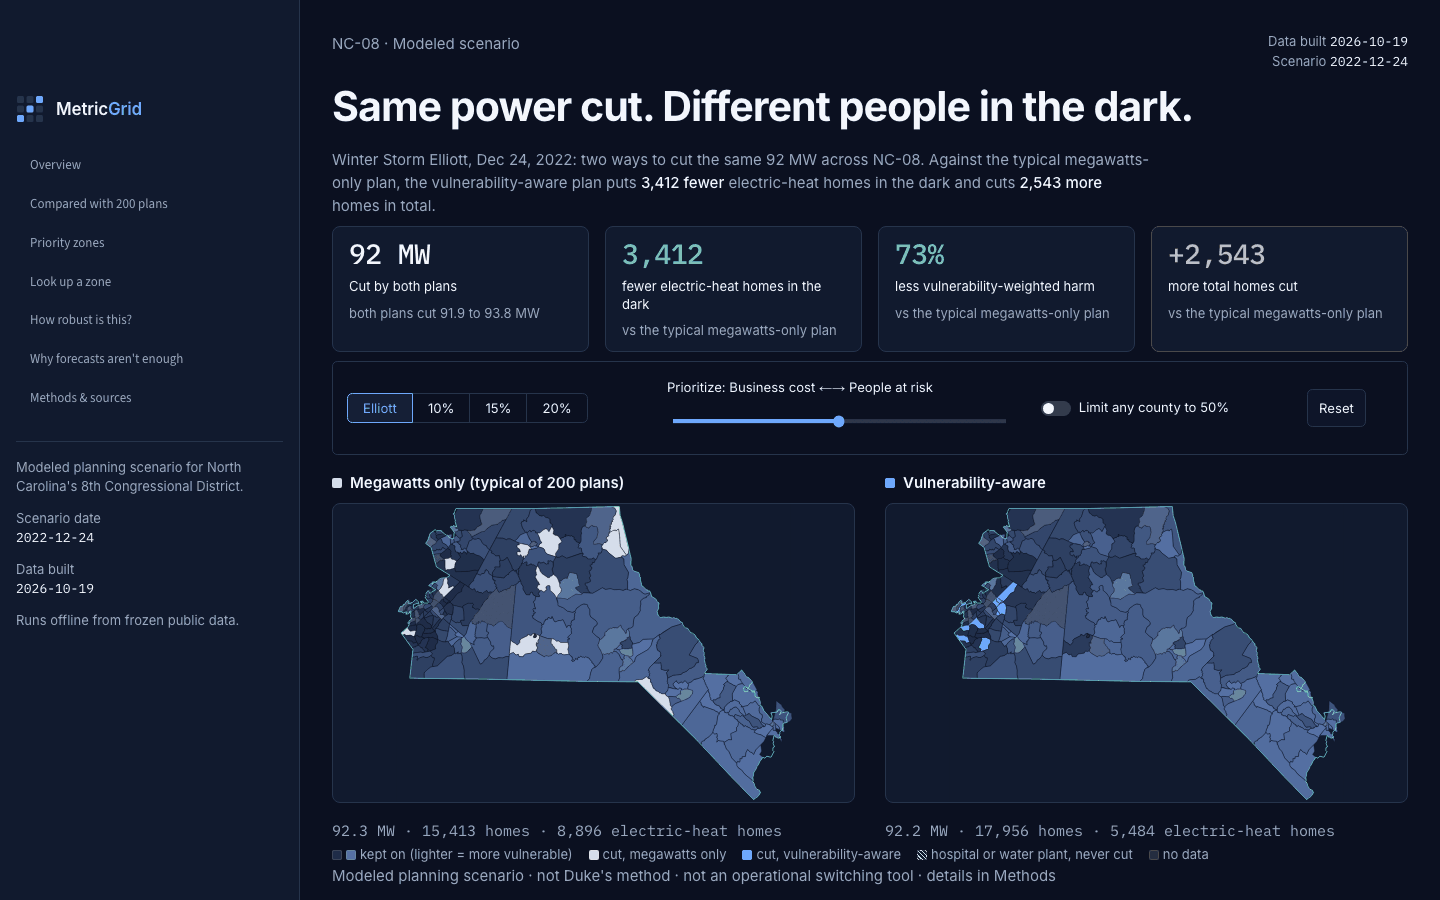
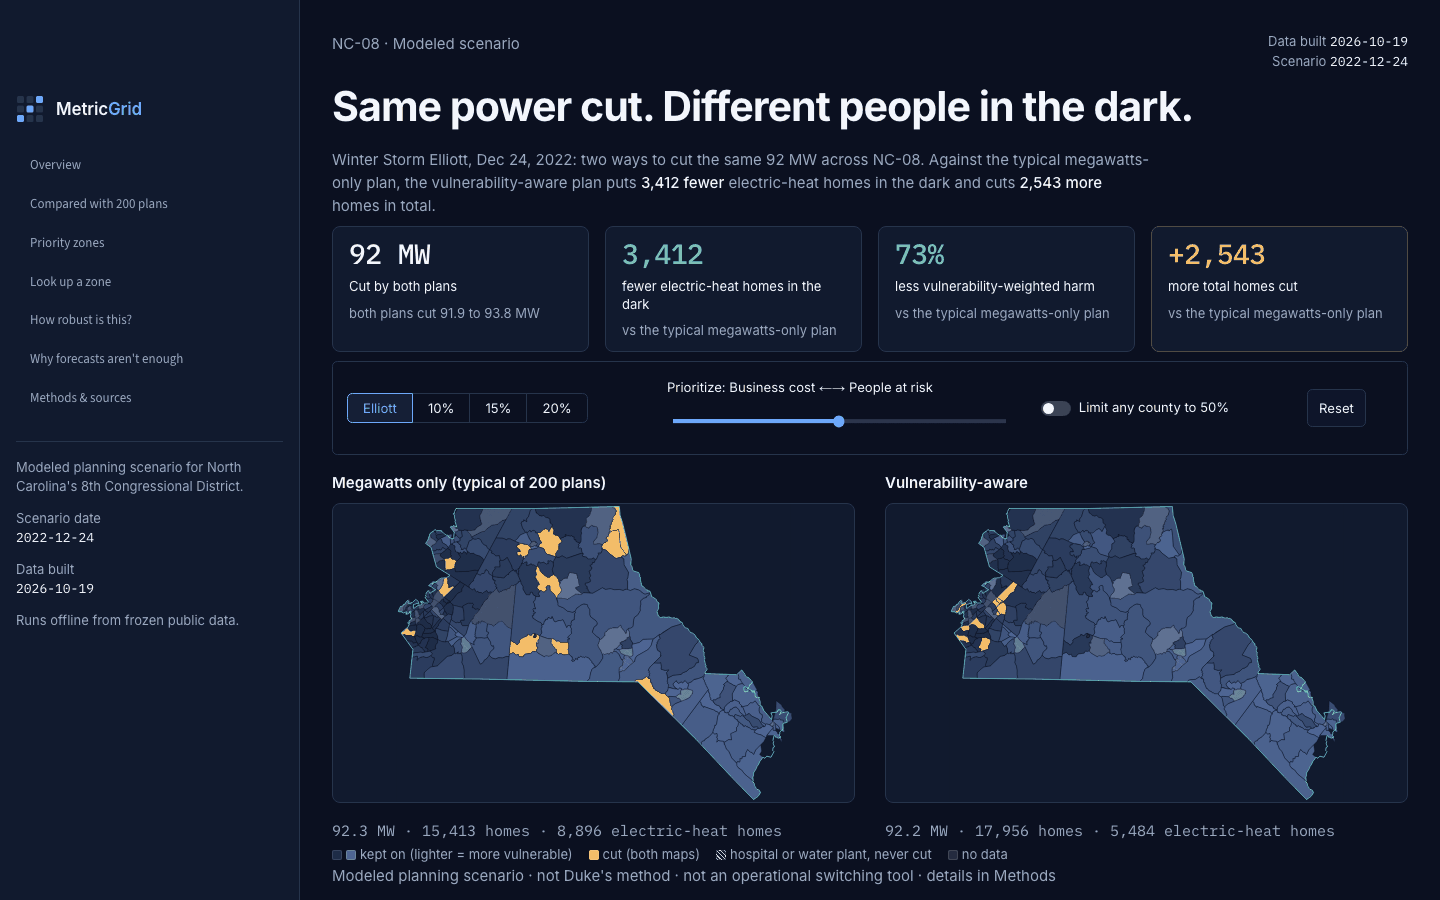
One cut color and shared SVI shading on both maps; contrast audit

diff --git a/scripts/contrast_check.py b/scripts/contrast_check.py
@@ -1,0 +1,56 @@
+"""Dev tool: WCAG 2.1 contrast ratios for the colour pairs the page actually uses (palette from app/theme.py). Exit 1 if any pair fails."""
+import sys
+from pathlib import Path
+
+sys.path.insert(0, str(Path(__file__).resolve().parents[1] / "src"))
+from metric_grid.app import maps, theme  # noqa: E402
+
+
+def lum(hexc: str) -> float:
+    c = [int(hexc.lstrip("#")[i:i + 2], 16) / 255 for i in (0, 2, 4)]
+    c = [x / 12.92 if x <= 0.03928 else ((x + 0.055) / 1.055) ** 2.4 for x in c]
+    return 0.2126 * c[0] + 0.7152 * c[1] + 0.0722 * c[2]
+
+
+def ratio(a: str, b: str) -> float:
+    la, lb = sorted((lum(a), lum(b)), reverse=True)
+    return (la + 0.05) / (lb + 0.05)
+
+
+def hexof(rgb) -> str:
+    return "#%02x%02x%02x" % tuple(int(x) for x in rgb)
+
+
+T, M, B, S, E = theme.TEXT, theme.MUTED, theme.BG, theme.SURFACE, theme.ELEVATED
+HOVER = "#14203A"
+LOW, HIGH = hexof(maps.KEPT_LIGHT), hexof(maps.KEPT_DARK)
+PAIRS = [  # (description, foreground, background, minimum)
+    ("body text on page", T, B, 4.5), ("body text on card", T, S, 4.5), ("body text on elevated", T, E, 4.5),
+    ("muted text on page (deck, map numbers, legend, footnote)", M, B, 4.5), ("muted text on card (tile sub-lines, table headers, notes)", M, S, 4.5),
+    ("muted text on elevated (badges, code)", M, E, 4.5), ("muted text on table hover row", M, HOVER, 4.5), ("body text on table hover row", T, HOVER, 4.5),
+    ("tile label (text) on card", T, S, 4.5), ("tile number, good (teal) on card", theme.TEAL, S, 4.5), ("tile number, attention (amber) on card", theme.AMBER, S, 4.5),
+    ("source kind (teal) on page", theme.TEAL, B, 4.5), ("link / accent (blue) on page", theme.BLUE, B, 4.5), ("link / accent (blue) on sidebar", theme.BLUE, S, 4.5),
+    ("muted nav text on sidebar", M, S, 4.5), ("nav hover text on elevated", T, E, 4.5), ("blue badge text on elevated", theme.BLUE, E, 4.5),
+    ("chart axis labels (muted) on page", M, B, 4.5), ("chart axis labels (muted) on card", M, S, 4.5),
+    ("map: cut colour vs lightest kept-on zone", maps.CUT_COLOR, LOW, 3.0), ("map: cut colour vs darkest kept-on zone", maps.CUT_COLOR, HIGH, 3.0),
+    ("map: cut colour vs map background", maps.CUT_COLOR, S, 3.0), ("map: kept-on (high SVI) vs map background", HIGH, S, 3.0),
+    ("map: kept-on (low SVI) vs map background", LOW, S, 1.0), ("map: district outline (teal) vs map background", theme.TEAL, S, 3.0),
+    ("strip: each plan dot vs card", theme.DOTS, S, 3.0), ("strip: vulnerability-aware circle vs card", theme.VULN_AWARE, S, 3.0),
+    ("strip: typical plan diamond vs card", theme.MW_ONLY, S, 3.0), ("control border (segmented control, toggle) vs page", "#5F7394", B, 3.0),
+    ("focus ring (blue) vs page", theme.BLUE, B, 3.0),
+]
+
+
+def main() -> int:
+    bad = 0
+    for desc, fg, bg, need in PAIRS:
+        r = ratio(fg, bg)
+        ok = r >= need
+        bad += not ok
+        print(f"{'PASS' if ok else 'FAIL'}  {r:5.2f}:1 (need {need})  {desc}  [{fg} on {bg}]")
+    print("FAILURES:", bad)
+    return 1 if bad else 0
+
+
+if __name__ == "__main__":
+    sys.exit(main())

diff --git a/src/metric_grid/app/streamlit_app.py b/src/metric_grid/app/streamlit_app.py
@@ -158,18 +158,17 @@ if view["note"]:
 # ---------------------------------------------------------------- 3. two maps (inline SVG: no WebGL, no external requests)
 layers = st.cache_resource(lambda: maps.static_layers(zones, A["district"]))()
 mc1, mc2 = st.columns(2, gap="medium")
-for col, title, short, plan, color, mid in (
-        (mc1, f"Megawatts only (typical of {n_plans} plans)", "typical megawatts-only plan", r.baseline, maps.NEUTRAL_CUT, "map-mw"),
-        (mc2, "Vulnerability-aware", "vulnerability-aware plan", r.weighted, maps.VIOLET, "map-va")):
+for col, title, short, plan, mid in (
+        (mc1, f"Megawatts only (typical of {n_plans} plans)", "typical megawatts-only plan", r.baseline, "map-mw"),
+        (mc2, "Vulnerability-aware", "vulnerability-aware plan", r.weighted, "map-va")):
     with col:
-        st.markdown(f"<p class='maptitle'><span class='dot' style='background:{color}'></span>{title}</p>", unsafe_allow_html=True)
-        st.markdown(maps.map_svg(zones, layers, set(plan.zone_ids), color, short, mid, freq=lo_counts if mid == "map-mw" else None,
+        st.markdown(f"<p class='maptitle'>{title}</p>", unsafe_allow_html=True)
+        st.markdown(maps.map_svg(zones, layers, set(plan.zone_ids), short, mid, freq=lo_counts if mid == "map-mw" else None,
                              n_plans=n_plans, label=f"Map of NC-08: {title}"), unsafe_allow_html=True)
         st.markdown(f"<p class='mapnums'>{plan_numbers(plan)}</p>", unsafe_allow_html=True)
 st.markdown(
-    "<div class='legend'><span><span class='sw' style='background:#1E2C48'></span><span class='sw' style='background:#5874A8'></span>kept on (lighter = more vulnerable)</span>"
-    "<span><span class='sw' style='background:#D5DDEB'></span>cut, megawatts only</span>"
-    "<span><span class='sw' style='background:#6EA8FE'></span>cut, vulnerability-aware</span>"
+    "<div class='legend'><span><span class='sw' style='background:#1E2C48'></span><span class='sw' style='background:#506896'></span>kept on (lighter = more vulnerable)</span>"
+    "<span><span class='sw' style='background:#F3BD69'></span>cut (both maps)</span>"
     "<span><span class='sw' style='background:repeating-linear-gradient(45deg,#111A2E,#111A2E 2px,#C9D3E6 2px,#C9D3E6 3px)'></span>hospital or water plant, never cut</span>"
     "<span><span class='sw' style='background:#2A2F3D'></span>no data</span></div>", unsafe_allow_html=True)
 cap_txt = f" · No county takes more than {cap_share:.0%} of either plan's cut" if view["cap_applied"] else ""

diff --git a/src/metric_grid/app/maps.py b/src/metric_grid/app/maps.py
@@ -15,8 +15,9 @@ WIDTH = 1000.0          # viewBox width; height follows the district's aspect ra
 SIMPLIFY_DEG = 0.0015
 from metric_grid.app import theme
 
-INK, VIOLET, NEUTRAL_CUT = "#C9D3E6", theme.VULN_AWARE, theme.MW_ONLY   # INK = hatch lines; VIOLET kept as the vulnerability-aware color name
-KEPT_LIGHT, KEPT_DARK, NODATA = np.array([30, 44, 72]), np.array([88, 116, 168]), "#2A2F3D"
+INK = "#C9D3E6"            # hatch lines
+CUT_COLOR = theme.AMBER    # one colour for "cut" on both maps; which plan is which comes from the map titles
+KEPT_LIGHT, KEPT_DARK, NODATA = np.array([30, 44, 72]), np.array([80, 104, 150]), "#2A2F3D"
 
 
 def kept_rgb(svi) -> str:
@@ -75,9 +76,9 @@ def static_layers(zones: gpd.GeoDataFrame, district: gpd.GeoDataFrame) -> dict:
             "outline": "".join(proj.path(g) for g in district.geometry)}
 
 
-def map_svg(zones: gpd.GeoDataFrame, layers: dict, cut_ids: set, cut_color: str, plan_name: str, map_id: str,
+def map_svg(zones: gpd.GeoDataFrame, layers: dict, cut_ids: set, plan_name: str, map_id: str,
             freq: dict | None = None, n_plans: int = 0, label: str = "") -> str:
-    """One map. Cut zones solid `cut_color`; kept-on zones light grey (deeper = more vulnerable); protected zones carry a hatch."""
+    """One map. Cut zones solid `CUT_COLOR` (same on both maps); kept-on zones light grey (deeper = more vulnerable); protected zones carry a hatch."""
     paths = []
     for r in zones.itertuples():
         zid = int(r.zone_id)
@@ -89,7 +90,7 @@ def map_svg(zones: gpd.GeoDataFrame, layers: dict, cut_ids: set, cut_color: str,
         if freq is not None and n_plans:
             tip.append(f"cut in {freq.get(zid, 0)} of {n_plans} megawatts-only plans")
         tip.append(f"Est. load {r.L_mw:.1f} MW (modeled) · SVI {svi} · electric heat {heat} · {r.occupied_units:,.0f} households")
-        fill = cut_color if cut else kept_rgb(r.RPL_THEMES)
+        fill = CUT_COLOR if cut else kept_rgb(r.RPL_THEMES)
         paths.append(f'<path d="{layers["zone_paths"][zid]}" fill="{fill}" stroke="#0B1020" stroke-width="1" '
                      f'stroke-linejoin="round"><title>{html.escape(chr(10).join(tip))}</title></path>')
     hatch = f'<path d="{layers["hatch"]}" fill="none" stroke="{INK}" stroke-width="0.8" stroke-opacity="0.6" pointer-events="none"/>'

diff --git a/docs/VIDEO_SHOTLIST.md b/docs/VIDEO_SHOTLIST.md
@@ -9,7 +9,7 @@ Say it plainly: this is a **modeled planning scenario**, not Duke's method, not 
 | # | Time | App state (URL after `http://localhost:8765/`) | What is on screen | Say (in your own words) |
 |---|---|---|---|---|
 | 1 | 0:00-0:18 | default: no query | The whole first screen, no scrolling: headline "Same power cut. Different people in the dark.", four tiles (92 MW cut by both plans; 3,412 fewer electric-heat homes in the dark; 73% less vulnerability-weighted harm; +2,543 more total homes cut), the controls bar, both maps | Winter Storm Elliott, 2022; two utilities shed load; the demand is the hour ending 07:00 (06:00-07:00). Many different megawatts-only plans meet the same MW target; we compare with 200 of them. Read the fourth tile out loud: the vulnerability-aware plan cuts MORE total homes. |
-| 2 | 0:18-0:38 | same, the two maps | "Megawatts only (typical of 200 plans)" vs "Vulnerability-aware"; hover one cut zone in each (tooltip: zone, county, "cut in k of 200 megawatts-only plans", load, SVI, electric heat, households); the hatched protected zones | Zones are census tracts, not utility boundaries. Dark = cut. Hatched = hospitals, nursing homes, water plants: never cut. The left plan is the typical one, not "the" baseline: there is no single baseline. |
+| 2 | 0:18-0:38 | same, the two maps | "Megawatts only (typical of 200 plans)" vs "Vulnerability-aware"; hover one cut zone in each (tooltip: zone, county, "cut in k of 200 megawatts-only plans", load, SVI, electric heat, households); the hatched protected zones | Zones are census tracts, not utility boundaries. Amber = cut, the same color on both maps; the map titles say which plan is which. Hatched = hospitals, nursing homes, water plants: never cut. The left plan is the typical one, not "the" baseline: there is no single baseline. |
 | 3 | 0:38-0:58 | same, scroll to "Compared with 200 megawatts-only plans" | The honest lines (cuts 2,543 MORE households; MORE than 200 of 200) and four dot plots: grey dots = the 200 megawatts-only plans, light diamond = the typical one, blue circle = the vulnerability-aware plan | This is the main result: the blue dot is outside the grey cloud on electric-heat households and vulnerability-weighted households, lower on cost, and to the right (more) on total households. Say the last one out loud. |
 | 4 | 0:58-1:12 | same, scroll to the flip list under the priority table | Expand "All 21 zones that differ between the two plans"; each line shows how often megawatts-only plans cut the zone | The vulnerability-aware plan concentrates its cut in one low-vulnerability county: say it. |
 | 5 | 1:12-1:28 | `?alpha=1` then `?alpha=0` (or drag the slider to People at risk, then Business cost) | People at risk end: human harm only. Business cost end: the 73% tile flips sign and the sentence says "MORE electric-heat households" | The slider is a value judgment, not math. At the Business cost end the plan does worse on people at risk: show it. |

diff --git a/CHANGELOG.md b/CHANGELOG.md
@@ -18,3 +18,4 @@
 - Deployment prep: .python-version (3.11) for Streamlit Community Cloud; history checked for keys and private files.
 - Presentation redesign (v2): first screen with headline, four stat tiles, one controls bar and two large maps; maps are now inline SVG (no WebGL, no basemap, no external requests) after the pydeck maps rendered blank in a user's Chrome (not reproducible headless); pydeck removed from requirements; sections for distribution, priority table, zone lookup, robustness, forecasts; all technical text in Methods; browser test checks both maps draw in Chromium and WebKit.
 - Design system v3: dark theme (Inter + IBM Plex Mono bundled and embedded, no network), sidebar shell with section links, page header with the primary insight, mono tabular numbers, shared chart theme with hover tooltips, source/kind lines per section; Pillow pinned (favicon). Plotly deliberately not added (Vega-Lite already in Streamlit; keeps requirements minimal).
+- Maps: one amber cut color and the same SVI shading on both maps; contrast checked (scripts/contrast_check.py plus a computed-style scan of every text node at 1440 and 390 px, minimum 6.45:1).

diff --git a/docs/AI_DISCLOSURE.md b/docs/AI_DISCLOSURE.md
@@ -33,6 +33,7 @@ Not listed individually because they are generated by `make freeze` or `scripts/
 | `requirements-node.txt` | AI-scaffolded (Claude Code) | TODO (author) |
 | `requirements.txt` | AI-scaffolded (Claude Code) | TODO (author) |
 | `scripts/app_screenshots.py` | AI-scaffolded (Claude Code) | TODO (author) |
+| `scripts/contrast_check.py` | AI-scaffolded (Claude Code) | TODO (author) |
 | `scripts/baseline_spread.py` | AI-scaffolded (Claude Code) | TODO (author) |
 | `src/metric_grid/app/copy.py` | AI-scaffolded (Claude Code) | TODO (author) |
 | `src/metric_grid/app/data.py` | AI-scaffolded (Claude Code) | TODO (author) |
